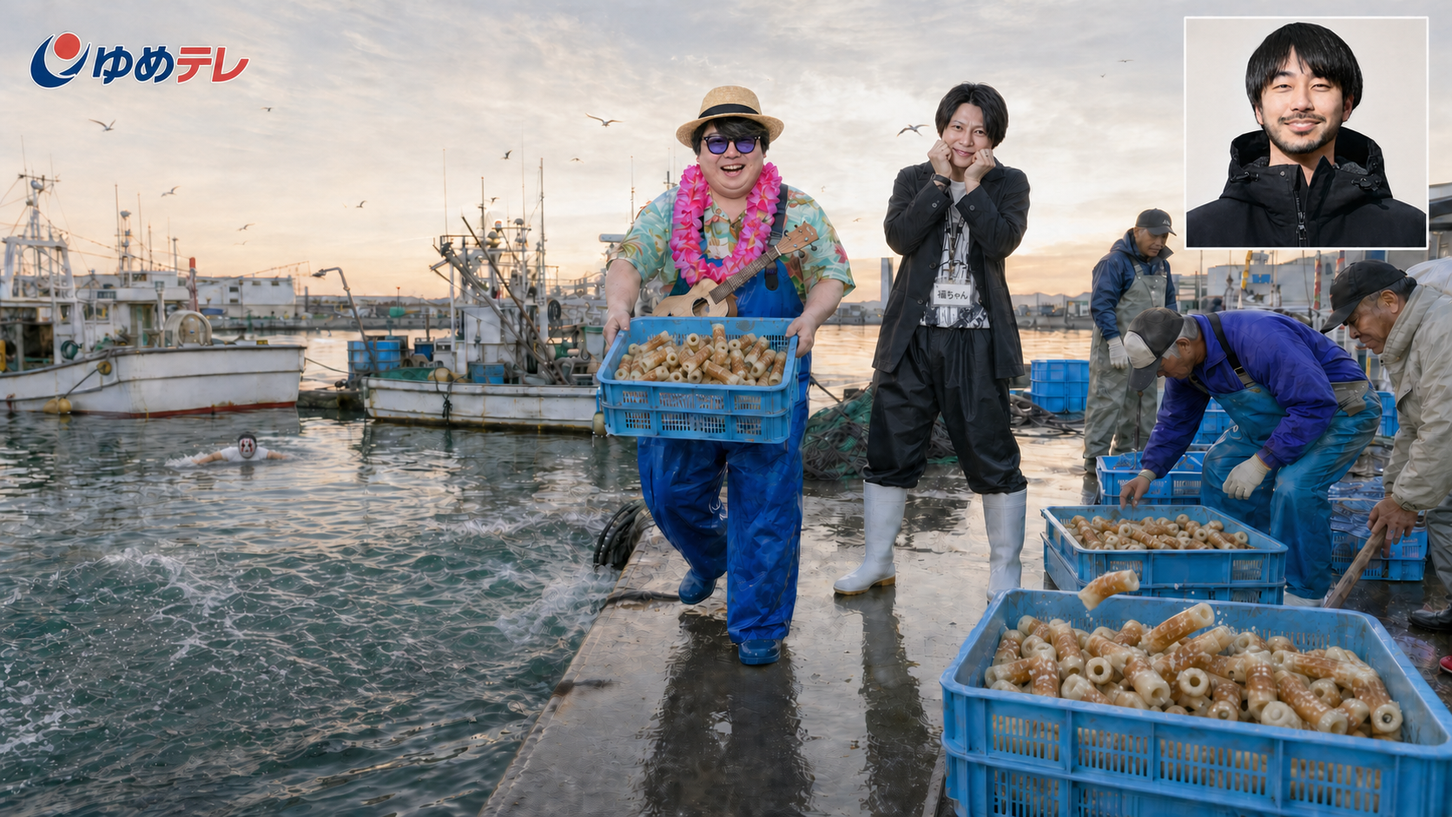
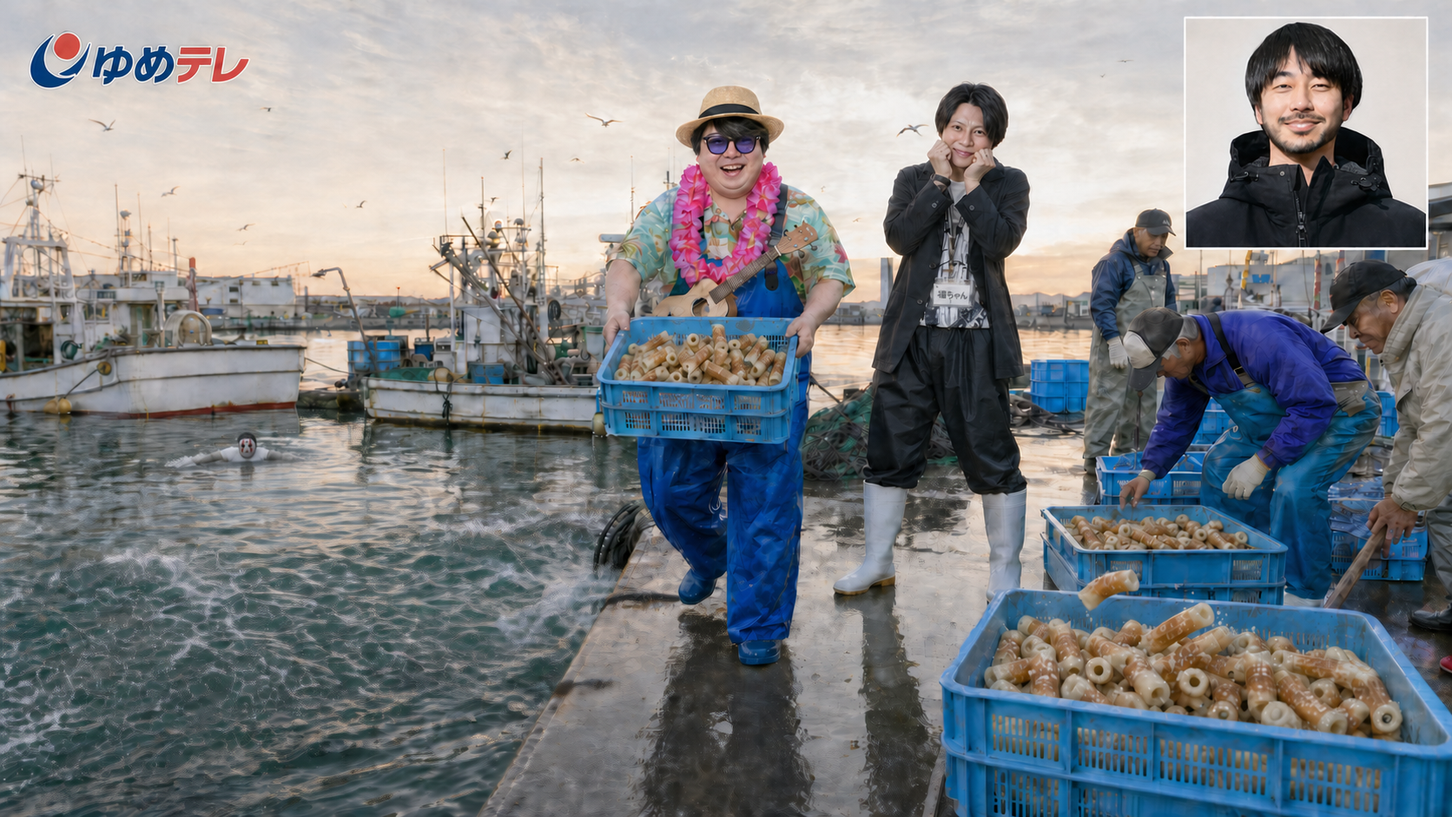
feat(seedance): add episode 26 voice coding news assets and prompts

diff --git a/03_SCRIPTS/26_voice_coding_news/script.md b/03_SCRIPTS/26_voice_coding_news/script.md
@@ -1,0 +1,224 @@
+# 声で書くエンジニア — Seedance 2.5用15秒マスタープロンプト
+
+## 参照画像
+
+| 画像番号 | ファイル | 種別 | 厳守する要素 | 映像へコピーしない要素／区間外禁止状態 | 適用秒区間 |
+|---:|---|---|---|---|---|
+| 画像1 | `scene_01_studio_start_production.png` | 本番開始フレーム | 同じ女性アナウンサー、紺ジャケット、白ブラウス、机、原稿、固定画角、青白い朝ニュース照明 | 静止画化、別の背景、余計な文字。4.1秒以降へスタジオを混ぜない | 0.0秒の完全一致、0.0〜4.1秒 |
+| 画像2 | `scene_02_akasaka_office_start_production.png` | ハードカット直後の本番開始フレーム | やめ太郎、男性リポーター、高機能IT開発フロア、デュアルモニター、デスクマイク、集中ブース、構成図ホワイトボード、東京タワー、人物配置 | スタジオ、よーたん、そば屋、営業電話、横一列の教室配置 | 4.1秒の完全一致、4.1〜9.1秒 |
+| 画像3 | `scene_03_yotan_interview_start_production.png` | 取材カット開始フレーム | よーたんと男性リポーターの顔、衣装、左右、マイク、黒いギター1本、同じIT開発フロア | やめ太郎の実体、そば屋、ギター演奏、別オフィス化 | 9.1秒の完全一致、9.1〜13.4秒 |
+| 画像4 | `scene_04_sobaya_interrupt_start_production.png` | 乱入カット開始フレーム | よーたん、男性リポーター、そば屋、白い仮面、灰色の肌、白Tシャツ、大型ジョッキ1個、同じIT開発フロア | 乾杯完了、ジョッキ複製、ビールを飲む、仮面欠落、別オフィス化 | 13.4秒の完全一致、13.4〜14.8秒 |
+| 画像5 | `character_yametaro_liveaction_basic_sheet.png` | 人物同一性 | やめ太郎の顔、42歳、中央分けの黒髪、丸メガネ、紫の葉柄シャツ、黒いスラックス | 設定シートの枠、文字、複数ポーズ、9.1秒以降の画面内実体 | 4.1〜9.1秒 |
+| 画像6 | `character_yotan_basic_sheet.png` | 人物同一性 | よーたんの顔、金髪、細身、サングラス、黒レザー服、黒いギター1本 | 設定シートの枠、文字、演奏ポーズ、9.1秒以前への出現 | 9.1〜14.8秒 |
+| 画像7 | `character_sobaya_basic_sheet.png` | 人物同一性 | そば屋の白い仮面、灰色の肌、筋肉質、白Tシャツ、大型ジョッキ1個 | 設定シートの枠、文字、飲酒ポーズ、13.4秒以前への出現 | 13.4〜14.8秒 |
+| 画像8 | `logo_yume_tele_master.png` | 放送ロゴ正本 | 架空局名「ゆめテレ」の字形と赤・紺の配色 | 白いマスター背景、説明画像化、実在局への置換 | 0.0〜14.8秒、右上へ小さく合成 |
+| 画像9 | `screen_voice_coding_lower_third_production.png` | 放送テロップ正本 | 「AIで変わる開発現場」「音声入力、職場に浸透」「東京・赤坂」の全文、赤・紺・白の意匠 | 透過余白の着色、文字改変、スタジオへの表示、14.8秒以降の残留 | 4.1〜14.8秒、画面下部へ直接合成 |
+
+## 厳守方針と優先順位
+
+1. 画像1〜4への開始フレーム一致と、画像5〜7に対するやめ太郎、よーたん、そば屋の顔・仮面の人物同一性。
+2. 必須音声6本の話者、全文、順番、時刻と、よーたんの声だけが意図的に聞こえない音響ギャグ。
+3. 15.0秒を隙間なく使い、4.1秒、9.1秒、13.4秒、14.8秒でハードカットする。
+4. 営業フロアや取調室のように強い怒鳴り声だが、全員が同僚ではなく自分のPC内のAIへ話す因果関係。
+5. 高機能な大手IT企業の開発フロア美術と、画像8・9の放送装飾。
+
+## シーン地理と開始配置
+
+- 0.0〜4.1秒は架空地方局「ゆめテレ」の朝ニューススタジオ。女性アナウンサーの胸上固定ショット。
+- 4.1秒で東京・赤坂のアクシデンチュア株式会社の開発フロアへ1フレームのハードカット。窓側が画面奥、東京タワーは右奥。画面中央手前がやめ太郎の昇降デスク、左手前が男性リポーター。
+- 開発席には、ノートPC、横長デュアルモニター、モニターアーム、ドッキングステーション、メカニカルキーボード、小型デスクマイク、配線トレー、エルゴノミクスチェアがある。背景にはガラス会議室、集中ブース、観葉植物、文字を読ませないシステム構成図ホワイトボードを固定する。
+- 全モニターは表裏を物理的に一意にする。画面正面は必ず使用者へ向け、カメラ側から裏面が見える場合は不透明な背面ケース、VESAマウント、アーム、配線だけを見せる。背面にコード画面、発光、UIを出さない。
+- やめ太郎の隣席は、机、椅子、着席者、キーボード、モニター台座、画面の向きを一つの作業席として揃える。置けないモニターは移動ではなく削除してよい。
+- 背景の成人エンジニア8〜12人は、各自のデスクマイクとモニターへ向かって話す。電話営業、同僚への叱責、身体的威圧にはしない。
+- 9.1秒で同じフロア内の隣接した別の取材位置へ切る。シーン2の撮影地点から窓側通路へ横に約2.5〜3m移動し、撮影軸を室内側へ約20〜30度振る。机列、窓、東京タワー、集中ブース、観葉植物、ホワイトボードに自然な視差を出す。やめ太郎の席は画面外左または遠い背景にあり、よーたんはやめ太郎の席ではなく机列間の空いた通路に立つ。画面左が男性リポーター、右がよーたん。よーたんの黒いギターは背中へ固定し、演奏しない。
+- 13.4秒はシーン3と同じ通路側の撮影位置・背景視差を維持し、画角だけ少し広げる。そば屋が中央奥の通路から二人の間へ一歩入る。大型ジョッキは右手に1個だけ。やめ太郎の席へ戻らない。
+- 14.8秒で映像と全音声を同時に遮断し、15.0秒まで完全な黒画面にする。復帰メッセージ、字幕、音を追加しない。
+
+## 動作原則
+
+- ニュース側は最後まで真面目。アナウンサー、リポーター、よーたんは笑わず、異常さを説明する芝居をしない。
+- エンジニアの声は、ハードな営業マンと取調官を混ぜたような低く鋭い語気、短い語尾、強い腹声。陽気な掛け声、宴会、笑い声にしない。
+- やめ太郎は同僚を見ず、常に自分のモニターとデスクマイクへ怒鳴る。後輩の注意にも振り向かない。
+- リポーターのハンドマイク音声はニュース用の近接音として中央へ出し、怒号の中でも全文を聞かせる。
+- よーたんは専門家として真剣に説明し始めるが、9.3秒からのやめ太郎の怒鳴り声と背景の怒号で声だけを完全にかき消す。口の動きは自然に続ける。
+- そば屋はカメラの前へ一歩入り、ジョッキを上げながら「かんぱー」と言いかける。乾杯を言い切らず、14.8秒に放送を切る。
+- BGM、ニュースジングル、コミカルな効果音、笑い声を入れない。
+
+## 秒区間別アクション設計
+
+### 0.0〜4.1秒：スタジオ導入
+
+- 0.0秒を画像1へ完全一致。女性アナウンサーは口を閉じ、正面を見る。
+- 0.2〜3.5秒、女性アナウンサーが「AIで、仕事が変わります。」を、落ち着いた朝ニュースの声で速めに1回だけ発話する。口を完全同期させる。
+- 発話中は固定の胸上ショットを維持。笑顔、手振り、うなずき、カメラ移動を入れない。
+- 3.5秒で口を閉じる。4.1秒、赤坂の開発フロアへハードカット。
+
+### 4.1〜9.1秒：怒号の音声開発フロア
+
+- 4.1秒の最初のフレームを画像2へ完全一致させる。カットと同時にオフィス全体の怒号が最大音量で始まり、無音の導入を作らない。
+- 4.2〜6.8秒、やめ太郎はモニターを右手人差し指で指し、デスクマイクへ「それ、さっき言ったやろ！」と1回だけ怒鳴る。乾いた関西弁調。視線はPCから外さない。
+- 4.5〜8.3秒、男性リポーターは右耳のイヤモニを押さえたまま、カメラへ「赤坂では、声で開発中です。」を1回だけ大声で発話する。ニュースマイクを最前面にミックスし、全文を聞かせる。
+- 6.0〜8.7秒、画面外左奥の若い男性後輩エンジニアが、やめ太郎へ「やめさん、うるさいですよ！」と1回だけ注意する。やめ太郎の名前が明瞭に聞こえる。後輩本人へカメラを切り替えない。
+- 背景8〜12人は、モニターへ前傾し、デスクマイクへ強い声を出す。個別の言葉は半ば重なって判別不能にし、上記3本を置換する別台詞を作らない。
+- 8.7秒、リポーターがマイクを胸元へ戻す。9.1秒、よーたんの取材画へハードカット。
+
+### 9.1〜13.4秒：何も聞こえないCTO取材
+
+- 9.1秒の最初のフレームを画像3へ完全一致。よーたんは口を閉じ、リポーターはマイクを口元へ向ける。
+- 9.3〜13.5秒、直前の画面外にいるやめ太郎の声が「知らん！なんかいい感じに実装しろ！」と1回だけ、オフィス全体を突き抜ける最大音量で響く。
+- 9.5秒、よーたんは真面目に説明を始める。最初の口形は「バイブコーディングは」に対応させ、その後も専門家らしく説明を続けるが、よーたん自身の音声は0%理解できるレベルまで完全に怒号へ埋める。よーたんの字幕、要約、ナレーションを追加しない。
+- 男性リポーターは聞こえているふりで一度だけ深くうなずく。困った顔、笑い、耳を押さえる動作はしない。
+- 背景エンジニアも強い怒号を継続するが、やめ太郎の必須台詞を覆わない。
+- 13.4秒、同じ取材軸の少し広い画像4へハードカット。
+
+### 13.4〜14.8秒：そば屋の乱入
+
+- 13.4秒の最初のフレームを画像4へ完全一致。そば屋は二人の半歩後ろ、ジョッキは右手の胸の高さ。
+- 13.4〜13.6秒、そば屋が一歩だけ前へ入り、リポーターとよーたんの間へ顔を出す。人物へ接触せず、マイクを奪わない。
+- 13.6〜14.4秒、そば屋は大型ジョッキを肩の高さへ上げながら「かんぱー」と1回だけ伸ばして言う。「い」まで発音せず、乾杯を完結させない。
+- よーたん、リポーター、背景社員は反応せず、取材と怒号を続ける。
+- 14.8秒、映像と全音声を1フレームで同時に遮断する。
+
+### 14.8〜15.0秒：放送遮断
+
+- 完全な黒画面。完全な無音。ロゴ、テロップ、復旧文、ノイズ、カラーバーを出さない。
+
+## 状態連続性台帳
+
+| 区間 | 人物・位置 | 小道具 | 音声状態 | 出口状態 |
+|---|---|---|---|---|
+| 0.0〜4.1秒 | アナウンサー中央 | 原稿、ピンマイク | アナウンサーのみ | 口を閉じてハードカット |
+| 4.1〜9.1秒 | やめ太郎中央、リポーター左、背景社員 | デュアルモニター、デスクマイク、ハンドマイク | 怒号開始、必須3台詞 | リポーターがマイクを戻す |
+| 9.1〜13.4秒 | シーン2から横へ2.5〜3m移動した通路。リポーター左、よーたん右 | ハンドマイク、黒いギター1本 | やめ太郎の必須台詞がよーたんを完全にマスク | よーたんは説明中 |
+| 13.4〜14.8秒 | 同じ通路と撮影軸。左リポーター、右よーたん、中央奥からそば屋 | ギター1本、ジョッキ1個 | 怒号継続、そば屋「かんぱー」 | ジョッキが肩高、台詞未完 |
+| 14.8〜15.0秒 | 人物なし | なし | 完全無音 | 黒画面で終了 |
+
+## 日本語セリフと発音の固定
+
+完成音声には、次の必須音声6本を指定話者が各1回だけ収録する。よーたんの発話は演技として口を動かすが、完成ミックスでは意図的に聞き取れないため必須音声へ数えない。
+
+| 話者 | 正確な日本語 | かな読み | 声と感情 |
+|---|---|---|---|
+| 女性アナウンサー | 「AIで、仕事が変わります。」 | えーあいで、しごとがかわります。 | 30代後半の日本人女性。落ち着いた標準語。速めで明瞭、笑わない |
+| やめ太郎 | 「それ、さっき言ったやろ！」 | それ、さっきいったやろ！ | 42歳の成人日本人男性。乾いた関西弁調。低く鋭く、PCを取り調べるように怒鳴る |
+| 男性リポーター | 「赤坂では、声で開発中です。」 | あかさかでは、こえでかいはつちゅうです。 | 30代後半の日本人男性。標準語。騒音に負けない現場中継の大声 |
+| 後輩エンジニア | 「やめさん、うるさいですよ！」 | やめさん、うるさいですよ！ | 20代後半の日本人男性。少し離れた左奥。苛立っているが脅迫せず、名前を明瞭に言う |
+| やめ太郎 | 「知らん！なんかいい感じに実装しろ！」 | しらん！なんかいいかんじにじっそうしろ！ | 同じやめ太郎の声。取調官のように短く強く、最大音量 |
+| そば屋 | 「かんぱー」 | かんぱー | 低く太い成人男性。陽気な完成形にせず、「い」の直前で放送が切れる |
+
+## セリフ尺の監査
+
+| 話者 | 種別 | 正確なセリフ | モーラ | 最低発話尺 | 指定発話区間 | 必要な演技尺 | 指定演技区間 | リスク |
+|---|---|---|---:|---:|---|---:|---|---|
+| 女性アナウンサー | 通常 | 「AIで、仕事が変わります。」 | 14 | 3.3秒 | 0.2〜3.5秒 = 3.3秒 | 4.1秒 | 0.0〜4.1秒 | 低 |
+| やめ太郎 | 強い早口 | 「それ、さっき言ったやろ！」 | 10 | 2.6秒 | 4.2〜6.8秒 = 2.6秒 | 3.4秒 | 4.1〜7.5秒 | 中、リポーターと重なるため左右定位必須 |
+| 男性リポーター | 強い早口 | 「赤坂では、声で開発中です。」 | 17 | 3.8秒 | 4.5〜8.3秒 = 3.8秒 | 4.6秒 | 4.1〜8.7秒 | 中、近接マイクを最前面にする |
+| 後輩エンジニア | 強い早口 | 「やめさん、うるさいですよ！」 | 11 | 2.7秒 | 6.0〜8.7秒 = 2.7秒 | 3.5秒 | 5.6〜9.1秒 | 中、左奥定位で名前を明瞭化 |
+| やめ太郎 | 強い早口 | 「知らん！なんかいい感じに実装しろ！」 | 18 | 4.2秒 | 9.3〜13.5秒 = 4.2秒 | 5.0秒 | 9.1〜14.1秒 | 低、よーたんをマスクする主音声 |
+| そば屋 | 中断掛け声 | 「かんぱー」 | 4 | 0.8秒 | 13.6〜14.4秒 = 0.8秒 | 1.6秒 | 13.2〜14.8秒 | 低、未完が演出意図 |
+
+## Seedance動画プロンプト
+
+```text
+【厳守モード】
+Seedance 2.5で、日本語音声付きの写実的な日本の地方ニュースを正確に15.0秒生成する。0.0〜4.1秒は朝ニューススタジオ、4.1〜14.8秒は東京・赤坂の巨大IT企業アクシデンチュア株式会社の高機能な開発フロア、14.8〜15.0秒は放送遮断後の黒画面。4.1秒、9.1秒、13.4秒、14.8秒で1フレームのハードカットを行う。ニュース側は最後まで真面目で、笑いの核は、AI音声入力が一般化した結果、清潔で高度な開発フロアが営業フロアや取調室のような怒号に包まれていること、CTOよーたんの専門説明が何も聞こえないこと、最後にそば屋が乾杯を言い切る前に放送が遮断されることにある。
+
+【優先順位】
+1. 画像1〜4への開始フレーム一致と、画像5〜7の顔・仮面への人物同一性。2. 必須音声6本の話者、全文、順番、時刻。3. 15秒の秒区間とハードカット。4. 怒号の音響設計と、よーたんだけが意図的に聞こえない因果。5. 物理的に正しい机・モニター配置と画像8・9の放送装飾。
+
+【入力画像番号と適用区間】
+画像1=`scene_01_studio_start_production.png`。0.0秒を完全一致させ、0.0〜4.1秒の女性アナウンサー、机、画角、照明を固定する。
+画像2=`scene_02_akasaka_office_start_production.png`。4.1秒の最初のフレームを完全一致させ、4.1〜9.1秒のやめ太郎、リポーター、IT開発フロア、デスクマイク、集中ブース、構成図、東京タワー、および修正済みの机・モニター表裏・利用者の向きを固定する。
+画像3=`scene_03_yotan_interview_start_production.png`。9.1秒の最初のフレームを完全一致させる。シーン2から窓側通路へ横に2.5〜3m移動した撮影位置、20〜30度変えた撮影軸、背景の視差、リポーター左、よーたん右、マイク、ギター1本、修正済みのモニター背面を固定する。よーたんをシーン2のやめ太郎の位置へ置かない。
+画像4=`scene_04_sobaya_interrupt_start_production.png`。13.4秒の最初のフレームを完全一致させる。画像3と同じ通路位置・撮影軸・背景視差、リポーター、よーたん、そば屋、仮面、灰色の肌、ジョッキ1個、修正済みのモニター背面を固定する。画像2のやめ太郎席へ戻らない。
+画像5=`character_yametaro_liveaction_basic_sheet.png`、画像6=`character_yotan_basic_sheet.png`、画像7=`character_sobaya_basic_sheet.png`。各人物の顔骨格、目、鼻、口、顎、髪、眼鏡、仮面、体格、衣装、必須小道具を絶対正本にする。画像2〜4の顔がシートと競合した場合は画像5〜7を優先する。若返り、美化、平均顔化、別人化を禁止する。シートの枠、文字、複数ポーズを映像へ出さない。
+画像8=`logo_yume_tele_master.png`。0.0〜14.8秒、右上へ小さく直接合成し、「ゆめテレ」の字形を変えない。
+画像9=`screen_voice_coding_lower_third_production.png`。4.1〜14.8秒、画面下部へ直接合成し、「AIで変わる開発現場」「音声入力、職場に浸透」「東京・赤坂」を一字一句変えない。0.0〜4.1秒と14.8〜15.0秒には出さない。
+
+【必須音声チェックリスト・絶対に省略しない】
+1. 0.2〜3.5秒、女性アナウンサーが「えーあいで、しごとがかわります。」と1回だけ発話する。正しい表記は「AIで、仕事が変わります。」。
+2. 4.2〜6.8秒、やめ太郎が「それ、さっきいったやろ！」と1回だけ怒鳴る。正しい表記は「それ、さっき言ったやろ！」。
+3. 4.5〜8.3秒、男性リポーターが「赤坂では、声で開発中です。」と1回だけ発話する。
+4. 6.0〜8.7秒、画面外左奥の後輩エンジニアが「やめさん、うるさいですよ！」と1回だけ発話する。
+5. 9.3〜13.5秒、画面外のやめ太郎が「しらん！なんかいいかんじにじっそうしろ！」と1回だけ怒鳴る。正しい表記は「知らん！なんかいい感じに実装しろ！」。
+6. 13.6〜14.4秒、そば屋が「かんぱー」と1回だけ言い、「い」を発音する前に終える。
+6本を指定話者の同じ声で、各1回だけ収録する。省略、言い換え、反復、話者交換、追加の明瞭な台詞を禁止する。背景の怒号は言葉が半ば重なった環境音とし、上記6本を置換しない。よーたんは9.5秒から口を動かして専門説明をするが、その声はやめ太郎と背景怒号に完全に埋まり、単語を一つも理解できない。字幕や要約で補わない。
+
+【生成目標】
+15.0秒、16:9、30fps、480p。本物の日本の地方ニュースと区別できない写実性。平均ショット長ではなく、4つの明確な報道カットで構成する。演者は全員真顔。コメディ演技、笑い声、BGM、ジングル、コミカルな効果音なし。
+
+【キャラクター固定】
+やめ太郎は画像5の同じ42歳の日本人男性。細長い顔骨格、目・鼻・口・顎の比率、中央分けの直毛黒髪、完全な丸メガネ、自然な年齢感を一致させ、紫の葉柄シャツと黒いスラックスを維持する。よーたんは画像6の同じ40歳男性。細長い顔、頬骨、顎、鼻、口、暗い生え際を含む金髪、紫色レンズの丸いサングラス、黒レザージャケット、黒いギター1本を一致させる。ギターを演奏しない。そば屋は画像7の筋肉質な41歳、灰色の肌、短い黒髪、白い仮面、白Tシャツ、大型ガラス製ビールジョッキ1個。仮面は丸い黒目穴2個、額の黒丸1個、左右の赤い縦模様2本、短い横長の口を厳守し、再設計しない。男性リポーターは画像2〜4の同じ人物、紺スーツ、白シャツ、無地のハンドマイク。女性アナウンサーは画像1の同じ人物。
+
+【核心スタイル】
+日本の地方局によるAI活用企業の短い現場取材。スタジオは固定カメラ。オフィスは安定した肩載せENGカメラだが、発話中は揺らさない。高機能で清潔な大手IT企業の開発フロア。デュアル／ウルトラワイドモニター、モニターアーム、ノートPCドック、昇降デスク、エルゴノミクスチェア、デスクマイク、配線トレー、ガラス会議室、集中ブース、観葉植物、システム構成図ホワイトボードを維持する。横一列の教室、コールセンター、電話営業、証券取引フロアに変えない。
+
+【モニターと机の物理】
+全ディスプレイは表裏を一意にする。画面正面は必ず対応する着席者へ向き、反対側は不透明な黒または濃灰色の背面ケース、VESAマウント、モニターアーム、通気口、配線だけにする。背面へコード、UI、発光、映像を絶対に描かない。各アームと台座は実在する机へ接続し、画面を宙に浮かせない。やめ太郎の隣席は机、椅子、着席者、キーボード、モニターを同じ作業軸へ揃える。自然に置けない余分なモニターは増設せず消す。画像2〜4の修正済み配置を全オフィス区間で維持する。
+
+【音響原則】
+4.1〜14.8秒のオフィスは、ハードな営業マンと怖い取調官を混ぜたような低く鋭い怒鳴り声が常時重なる。全員が同僚ではなく、自分のPC内のAIへ向かって話す。陽気な掛け声、笑い、拍手、宴会にしない。必須音声は、アナウンサーとリポーターを中央、やめ太郎を右寄り、後輩を左奥、そば屋を中央手前へ定位する。リポーターの近接マイクと必須台詞6本は明瞭にし、よーたんの声だけを意図的に完全マスクする。
+
+【0.0〜4.1秒：スタジオ】
+0.0秒を画像1へ完全一致。女性アナウンサーは口を閉じ、正面を見る。0.2〜3.5秒、「えーあいで、しごとがかわります。」と1回だけ明瞭に発話し、口を完全同期。笑顔、手振り、うなずき、カメラ移動なし。3.5秒に口を閉じ、4.1秒にオフィスへハードカット。
+
+【4.1〜9.1秒：音声開発フロア】
+4.1秒の最初のフレームを画像2へ完全一致。カットした瞬間から最大音量の怒号。やめ太郎はPCを指し、4.2〜6.8秒に「それ、さっきいったやろ！」と怒鳴る。4.5〜8.3秒、リポーターはイヤモニを押さえ、カメラへ「赤坂では、声で開発中です。」と全文発話。6.0〜8.7秒、左奥の画面外後輩が「やめさん、うるさいですよ！」と名前を明瞭に言う。やめ太郎は振り向かず、PCだけを見る。背景社員はデスクマイクへ前傾して強く話すが、追加の明瞭な文章を作らない。9.1秒によーたんへハードカット。
+
+【9.1〜13.4秒：CTO取材】
+9.1秒の最初のフレームを画像3へ完全一致。シーン2から窓側通路へ横に2.5〜3m移動し、背景へ自然な視差が生じた別位置である。よーたんはやめ太郎の席ではなく通路に立ち、口を閉じる。リポーターがマイクを向ける。9.3〜13.5秒、画面外のやめ太郎が「しらん！なんかいいかんじにじっそうしろ！」と最大音量で全文怒鳴る。9.5秒からよーたんは真面目に「バイブコーディングは」と話し始める口形を作り、その後も専門説明を続けるが、よーたんの音声は完全に怒号へ埋め、何も聞き取らせない。リポーターは聞こえているふりで一度だけ深くうなずく。笑わない。13.4秒に画像4へハードカット。
+
+【13.4〜14.8秒：そば屋乱入】
+13.4秒の最初のフレームを画像4へ完全一致。シーン3と同じ通路位置、撮影軸、背景視差を維持し、画像2のやめ太郎席へ戻らない。そば屋は中央奥の通路から一歩だけ入り、誰にも接触せず、ジョッキを右手で胸高から肩高へ上げる。13.6〜14.4秒、「かんぱー」と伸ばし、「い」を発音しない。よーたん、リポーター、背景社員は反応しない。14.8秒、映像と全音声を同時に1フレームで遮断する。
+
+【14.8〜15.0秒：遮断】
+完全な黒画面と完全な無音。ロゴ、テロップ、復旧文、ノイズ、カラーバーなし。
+
+【状態連続性】
+4.1〜14.8秒は同じ開発フロア。窓、東京タワー、集中ブース、ガラス会議室、構成図ホワイトボード、机とモニターの正しい表裏・台座・利用者方向を移動、反転、消失させない。よーたんのギターは1本を背中へ固定。そば屋のジョッキは1個だけで、飲まず、こぼさない。14.8秒までは画像8・9を維持し、遮断と同時に完全消失させる。
+
+【色と照明】
+スタジオは青白い朝の放送照明。オフィスは自然な昼光と中性の天井照明、白・灰・黒のIT機器、紫のやめ太郎、黒レザーと金髪のよーたん、白と灰色のそば屋、琥珀色のビール。映画的な逆光やサイバーパンクのネオンを使わない。
+
+【禁止事項】
+必須音声6本の欠落、短縮、言い換え、反復、話者交換、順序変更、よーたん以外の必須音声のマスキング禁止。よーたんの声を明瞭化すること、よーたんの字幕や要約を出すことを禁止。全員が同僚へ怒鳴るパワハラ描写、営業電話、コールセンター、警察官、武器、身体的威圧、笑顔、笑い声、拍手、宴会、BGM、ニュースジングル禁止。やめ太郎の葉柄シャツと丸メガネ、よーたんの金髪・黒レザー・ギター、そば屋の仮面・灰色の肌・ジョッキの欠落や複製禁止。ギター演奏、ビールを飲む、乾杯の完了、そば屋が「い」まで発音することを禁止。人物の顔混合、複製、若返り、美化、別人化禁止。ディスプレイ背面への画面・コード・UI・発光、画面と背面の同時表示、利用者と逆向きの画面、浮遊モニター、机から外れた台座、隣席へ侵入するモニター、モニター複製を禁止。実在局、実在番組、実在企業ロゴ、疑似文字、余計なテロップ、透かし禁止。画像9の全文改変禁止。
+
+【生成形式】
+Seedance 2.5、正確に15.0秒、480p、16:9、30fps、日本語音声付き、1本生成。
+```
+
+## CapCut／Seedance入力設定
+
+- モデル：Seedance 2.5
+- 解像度：480p
+- 比率：16:9
+- 総尺：15.0秒×1本
+- 厳守モード：ON
+- 入力画像順：画像1 `scene_01_studio_start_production.png`、画像2 `scene_02_akasaka_office_start_production.png`、画像3 `scene_03_yotan_interview_start_production.png`、画像4 `scene_04_sobaya_interrupt_start_production.png`、画像5 `character_yametaro_liveaction_basic_sheet.png`、画像6 `character_yotan_basic_sheet.png`、画像7 `character_sobaya_basic_sheet.png`、画像8 `logo_yume_tele_master.png`、画像9 `screen_voice_coding_lower_third_production.png`。
+- 音声：ON。必須音声6本とオフィス環境怒号を映像と同時生成する。
+- 画像8は0.0〜14.8秒の右上へ直接合成する。
+- 画像9は4.1〜14.8秒の画面下部へ直接合成する。全文は「AIで変わる開発現場」「音声入力、職場に浸透」「東京・赤坂」。
+- 14.8〜15.0秒は完全な黒画面と無音。画像8・9も残さない。
+- 入力しない：旧失敗画像、旧テロップ生成、クロマキー変換前画像、アクション絵コンテ、矢印図、失敗動画。
+
+## 正史・物理・出力監査
+
+- [x] 15.0秒を0.0〜4.1、4.1〜9.1、9.1〜13.4、13.4〜14.8、14.8〜15.0で過不足なく埋めた
+- [x] 0.0秒、4.1秒、9.1秒、13.4秒を画像1〜4へ完全一致させた
+- [x] 必須音声6本の全文、話者、時刻、読みを固定した
+- [x] セリフ尺は各発話区間へ最低発話尺を確保した
+- [x] よーたんの説明だけを意図的に完全マスクし、ほかの必須音声は明瞭にする
+- [x] やめ太郎を後輩が「やめさん」と呼び、騒音源を初見でも特定できる
+- [x] 怒号の対象を同僚ではなくPC内のAIへ固定した
+- [x] デュアルモニター、デスクマイク、昇降デスク、集中ブース、ガラス会議室、構成図ホワイトボードをIT企業美術として固定した
+- [x] 画像2〜4のディスプレイ表裏、台座、配線、利用者方向を現実的に修正した
+- [x] やめ太郎の隣席の机・椅子・モニター配置を自然な作業席へ修正した
+- [x] 画像2〜4のやめ太郎、よーたん、そば屋の顔・仮面を画像5〜7の正典へ再固定した
+- [x] シーン3をシーン2から横へ2.5〜3mずらした通路側へ移し、人物の瞬間置換に見えない背景視差を作った
+- [x] シーン4はシーン3の通路位置と撮影軸を維持し、やめ太郎席へ戻らない
+- [x] よーたんのギター、そば屋の仮面とジョッキを維持した
+- [x] そば屋は「かんぱー」までで、乾杯を完了しない
+- [x] 14.8秒に映像と全音声を同時遮断する
+- [x] 画像9の全文と透過を原寸確認した
+- [x] 通常形はテンプレートからコピーした実ファイルで、シンボリックリンクではない
+- [x] 実在局、実在番組、実在企業ロゴを使用しない

diff --git a/03_SCRIPTS/26_voice_coding_news/asset_generation_prompts.md b/03_SCRIPTS/26_voice_coding_news/asset_generation_prompts.md
@@ -1,0 +1,43 @@
+# 第26話「声で書くエンジニア」本番画像プロンプト
+
+このファイルは、本番開始フレームと放送画面素材の生成仕様を記録する。各画像はSeedanceへ直接入力する完成画であり、絵コンテ、矢印図、比較案ではない。
+
+## `scene_01_studio_start_production.png`
+
+- 用途: 0.0秒の本番開始フレーム。
+- 参照: 第25話のスタジオ開始フレームを、同じ架空地方局と同じ女性アナウンサーのidentity/style sourceとして使う。
+- 完成画: 16:9の写実的な朝ニュース。女性アナウンサーは中央の胸上、紺ジャケット、白ブラウス、真顔、口を閉じ、正面を見る。机、原稿、ピンマイク、青白い地方局スタジオ照明。
+- 禁止: 実在局、実在番組、実在アナウンサー、余計な字幕、時刻、疑似文字、透かし。ロゴは別素材を合成するため画面内へ描かない。
+
+## `scene_02_akasaka_office_start_production.png`
+
+- 用途: 4.1秒のハードカット直後の本番開始フレーム。
+- 参照1: やめ太郎実写基本シート。顔、髪、丸メガネ、紫の葉柄シャツを人物同一性の絶対正本にする。
+- 完成画: 赤坂の巨大IT企業の清潔で高機能な開発フロアを取材する日本の地方ニュースENG映像。35mm相当の中広角。画面中央手前のやめ太郎が、ノートPCを接続した外部モニターの開発席へ身を乗り出し、デスクマイクへ怒鳴り始める直前。口は閉じかけ、眉を寄せ、右手人差し指をPCへ向ける。顔は参照1の同じ42歳男性の細長い顔骨格、目、鼻、口、顎、中央分けの直毛黒髪、完全な丸眼鏡を極限まで忠実に再現し、若返り、美化、平均顔化をしない。画面左手前に男性現場リポーターがハンドマイクを持ち、右耳のイヤモニを押さえる。背景には、昇降デスク、モニター、ドッキングステーション、エルゴノミクスチェア、配線トレー、ガラス会議室、集中ブース、観葉植物、文字の読めないシステム構成図ホワイトボードがあり、真顔の成人エンジニア8〜12人が各自のデスクマイクでPCへ怒鳴る。窓外に東京タワーが小さく見える。各モニターの画面正面は使用者へ向き、カメラ側から裏面が見えるモニターは不透明な黒い背面ケース、VESAマウント、アーム、配線だけを見せる。やめ太郎の隣席は机、椅子、利用者、キーボード、モニター台座の位置と向きを現実的に揃え、不自然なモニターは移動または削除する。
+- 禁止: ディスプレイ背面へのコード画面・発光・UIの描画、画面と背面の同時表示、浮遊モニター、机から外れた台座、利用者と逆向きの画面、モニターの重複。横一列の教室配置、営業電話、コールセンター、全員同一のヘッドセット、拍手、笑顔、宴会、暴力、実在ロゴ、画面内文字、テロップ、吹き出し、説明図、透かし。
+
+## `scene_03_yotan_interview_start_production.png`
+
+- 用途: 9.1秒の取材カット開始フレーム。
+- 参照1: よーたん基本シート。顔骨格、頬骨、顎、鼻、口、金髪、細身、黒レザージャケット、紫色レンズの丸いサングラス、黒いエレキギターを人物同一性の絶対正本にする。
+- 完成画: 同じ高機能な赤坂IT開発フロアの日本のテレビニュース取材。ただしシーン2のやめ太郎席を人物だけ差し替えず、撮影カメラと取材人物を窓側の通路方向へ横に約2.5〜3m移動し、撮影軸を室内側へ約20〜30度振る。机列、窓、東京タワー、集中ブース、観葉植物、ホワイトボードには自然な視差を出し、同じフロア内の隣接した別位置だと分かる。やめ太郎の席は画面外左または遠い背景に残し、よーたんは机上ではなく机列間の空いた通路に立つ。70mm相当の安定した胸上ツーショット。画面右によーたん、真面目で落ち着いたCTOの表情、黒いギターをストラップで背負う。画面左の男性リポーターがハンドマイクをよーたんの口元へ向ける。背景にはモニター、昇降デスク、ガラス会議室、システム構成図ホワイトボード、集中ブースが強くぼけて見え、エンジニアがPCへ怒鳴っている緊迫した姿勢が分かる。よーたんの口は閉じ、発話開始前。
+- 禁止: よーたんの若返り、美化、平均顔化、眼鏡形状変更、髪の生え際変更。ディスプレイ背面への画面表示、浮遊モニター、利用者と逆向きの画面。ギター演奏、ライブ会場、笑顔、音符、吹き出し、画面内文字、実在ロゴ、透かし。
+
+## `scene_04_sobaya_interrupt_start_production.png`
+
+- 用途: 13.4秒の乱入開始フレーム。
+- 参照1: よーたん基本シート。顔骨格、金髪、紫色レンズの丸いサングラス、黒レザー服、ギターを人物同一性の絶対正本にする。
+- 参照2: そば屋基本シート。白い仮面の完全な形、丸い黒目穴2個、額の黒丸1個、左右の赤い縦模様2本、短い横長の口、灰色の肌、筋肉質、白Tシャツ、大型ガラス製ビールジョッキを人物同一性と必須小道具の絶対正本にする。
+- 完成画: シーン3で横へ2.5〜3m移動した通路側の取材位置と撮影軸をそのまま維持し、画角だけ少し広げる。同じ取材ツーショットへ、画面奥の通路からそば屋が大型ジョッキを胸の高さに持って入り始めた瞬間。よーたんと男性リポーターはシーン3と同じ立ち位置と取材姿勢。そば屋はまだ二人の間へ完全には入らず、仮面の口元は閉じ、発話開始前。背景の机列、モニター、窓、東京タワー、ホワイトボード、集中ブースの視差と位置をシーン3から変えず、やめ太郎の席へ戻らない。
+- 禁止: よーたんの別人化、そば屋の仮面再設計、目・眉・穴・模様の追加、肌色化。ディスプレイ背面への画面表示、浮遊モニター、利用者と逆向きの画面。乾杯完了、ジョッキ複製、ビールを飲む、仮面欠落、ギター欠落、笑顔、実在ロゴ、画面内文字、透かし。
+
+## `screen_voice_coding_lower_third_production.png`
+
+- 用途: 4.1〜14.8秒に直接合成するニュース下部テロップ素材。
+- 参照: 第25話の下部テロップをレイアウト、赤・紺・白の配色、放送グラフィック品質のstyle sourceとして使う。
+- 背景: 生成時は完全な無地緑のクロマキー、完成ファイルは透過。画面下部へ置く横長の独立した放送テロップ。説明パネルや比較案を入れない。
+- 表示文字は次の3行だけを逐語で一度ずつ描く。
+  - `AIで変わる開発現場`
+  - `音声入力、職場に浸透`
+  - `東京・赤坂`
+- 禁止: 上記以外の文字、英訳、疑似文字、実在局名、ロゴ、透かし、署名、人物、背景写真。

diff --git a/03_SCRIPTS/25_chikuwa_landing_news/script.md b/03_SCRIPTS/25_chikuwa_landing_news/script.md
@@ -5,7 +5,7 @@
 | 番号 | ファイル | 種別 | 厳守要素 | 映像へコピーしない要素 | 適用秒区間 |
 |---|---|---|---|---|---|
 | 画像1 | `scene_01_studio_start_production.png` | 本番開始フレーム | 女性アナウンサー、机、朝の地方局スタジオ、画角、照明 | 静止画化、余計な文字 | 0.0〜4.0秒 |
-| 画像2 | `scene_02_hamamatsu_harbor_start_production_v4.png` | ハードカット直後の本番フレーム | 浜松の港、濡れた岸壁、青い箱、海洋生物のちくわ、人物配置、右上ワイプ | 静止画化、人物名テロップ | 4.0〜15.0秒 |
+| 画像2 | `scene_02_hamamatsu_harbor_start_production_v4.png` | ハードカット直後の本番フレーム | 浜松の港、濡れた岸壁、青い箱、海洋生物のちくわ、人物配置、右上ワイプ、遠景のそば屋の灰色の両腕 | 静止画化、人物名テロップ、そば屋の腕の肌色化 | 4.0〜15.0秒 |
 | 画像3 | `character_sobaya_basic_sheet.png` | 人物同一性 | そば屋の仮面、短い黒髪、頭部比率、灰色の肌、白Tシャツ | シートの枠、文字、別ポーズ | 11.5〜15.0秒 |
 | 画像4 | `character_tokun_basic_sheet.png` | 人物同一性 | とーくんの顔、サングラス、麦わら帽子、アロハ、ウクレレ | シートの枠、文字、別ポーズ | 4.0〜11.5秒 |
 | 画像5 | `character_fukuchan_basic_sheet.png` | 人物同一性 | 福ちゃんの顔、髪、服、名札、ストラップ | シートの枠、文字、別ポーズ | 4.0〜11.5秒 |
@@ -204,6 +204,7 @@ Seedance 2.0、15秒、480p、16:9、30fps、1本生成。
 - [x] セリフ2本の尺検査がPASSした
 - [x] ちくわは食品形状のまま、濡れた生体光沢を持ち、2〜3匹だけ小さく跳ねる
 - [x] そば屋は灰色の肌で遠景へ偶然映り、ちくわ捕獲後だけ水中からジョッキを取り出す
+- [x] シーン2開始画像の遠景そば屋は、露出した左右の腕だけを正典のグレーへ色修正した
 - [x] とーくん、福ちゃん、おかやまん、そば屋の同一性を画像3〜6へ固定した
 - [x] おかやまんは右上ワイプ内だけに出演し、人物名テロップを出さない
 - [x] 時刻「7:00」とニュース見出しは画像8・画像9を使ってSeedance内で直接表示する

diff --git a/03_SCRIPTS/25_chikuwa_landing_news/asset_generation_prompts.md b/03_SCRIPTS/25_chikuwa_landing_news/asset_generation_prompts.md
@@ -31,6 +31,7 @@ Asset type: final Seedance production start frame with maximum character-identit
 Input images: Image 1 is the accepted harbor composition and environmental target. Image 2 is SOBAYA’s absolute mask and identity source. Image 3 is TOKUN’s absolute face and identity source. Image 4 is FUKUCHAN’s absolute face and identity source. Image 5 is OKAYAMAN’s absolute remote-face identity source.
 Primary request: Correct only the identity-critical face, hair, mask, head shape and adjacent identifying details of the four Madogiwa members so they match their canonical sheets as faithfully as possible. Identity fidelity outranks beautification, generic realism and creative interpretation.
 SOBAYA: exact white oval mask, two round black eye openings, centered black forehead dot, two tapered red vertical cheek markings, narrow horizontal mouth, short spiky black hair, broad gray neck and arms; remain a tiny accidental swimmer 12–15m away, empty hands and mouth, no beer.
+Targeted color correction: both exposed arms of the tiny distant SOBAYA swimmer must be neutral medium gray skin matching his canonical sheet, with wet seawater highlights and distance haze. Never use human beige or pink skin on either arm. This correction must not alter his mask, hair, white T-shirt, pose, scale, waterline, splashes, or any other pixel-level scene element.
 TOKUN: exact round slightly plump Japanese face, full cheeks, black side-swept hair, purple-tinted black sunglasses, nose and mouth proportions, straw hat and black band; preserve aloha, lei, ukulele, waterproof bibs, crate and pose.
 FUKUCHAN: exact slim 48-year-old Japanese male face, center-parted medium black hair around cheeks, narrow jaw, eyelids, eye spacing, straight nose, gentle smile and pink lips; preserve canonical gyungyun expression, black outfit, graphic shirt, SPONSOR lanyard, “福ちゃん” badge, white boots and pose.
 OKAYAMAN: exact medium black fringe, eye shape, nose, gentle smile, mustache and chin-beard outline, jaw, skin texture and black hooded jacket; remain only in the same upper-right white-bordered wipe.
